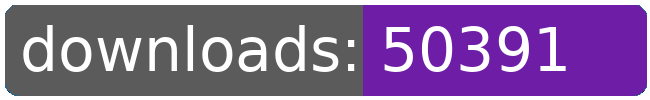
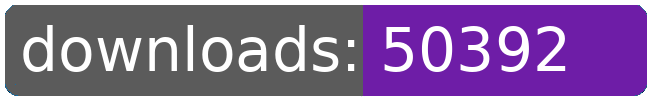
dl log written

Changed region(s): [[0.8, 0.24, 0.8923, 0.66], [0.8, 0.66, 0.8308, 0.69]]

diff --git a/README.md b/README.md
@@ -21,8 +21,8 @@
 		<td>3435</td>
 		<td>3457</td>
 		<td>3480</td>
-		<td>3495</td>
-		<td>+ 15</td>
+		<td>3496</td>
+		<td>+ 16</td>
 	</tr>
 	<tr>
 		<td>aberrant.kahet.outfitter</td>
@@ -274,8 +274,8 @@
 		<td></td>
 		<td></td>
 		<td></td>
-		<td>50391</td>
-		<td>306</td>
+		<td>50392</td>
+		<td>307</td>
 	</tr>
 </table>
 </sub></sup>
@@ -322,8 +322,8 @@
 		<td>3435</td>
 		<td>3457</td>
 		<td>3480</td>
-		<td>3495</td>
-		<td>+ 15</td>
+		<td>3496</td>
+		<td>+ 16</td>
 	</tr>
 	<tr>
 		<td>capture.archons</td>
@@ -553,8 +553,8 @@
 		<td></td>
 		<td></td>
 		<td></td>
-		<td>50391</td>
-		<td>306</td>
+		<td>50392</td>
+		<td>307</td>
 	</tr>
 </table>
 </sub></sup>
